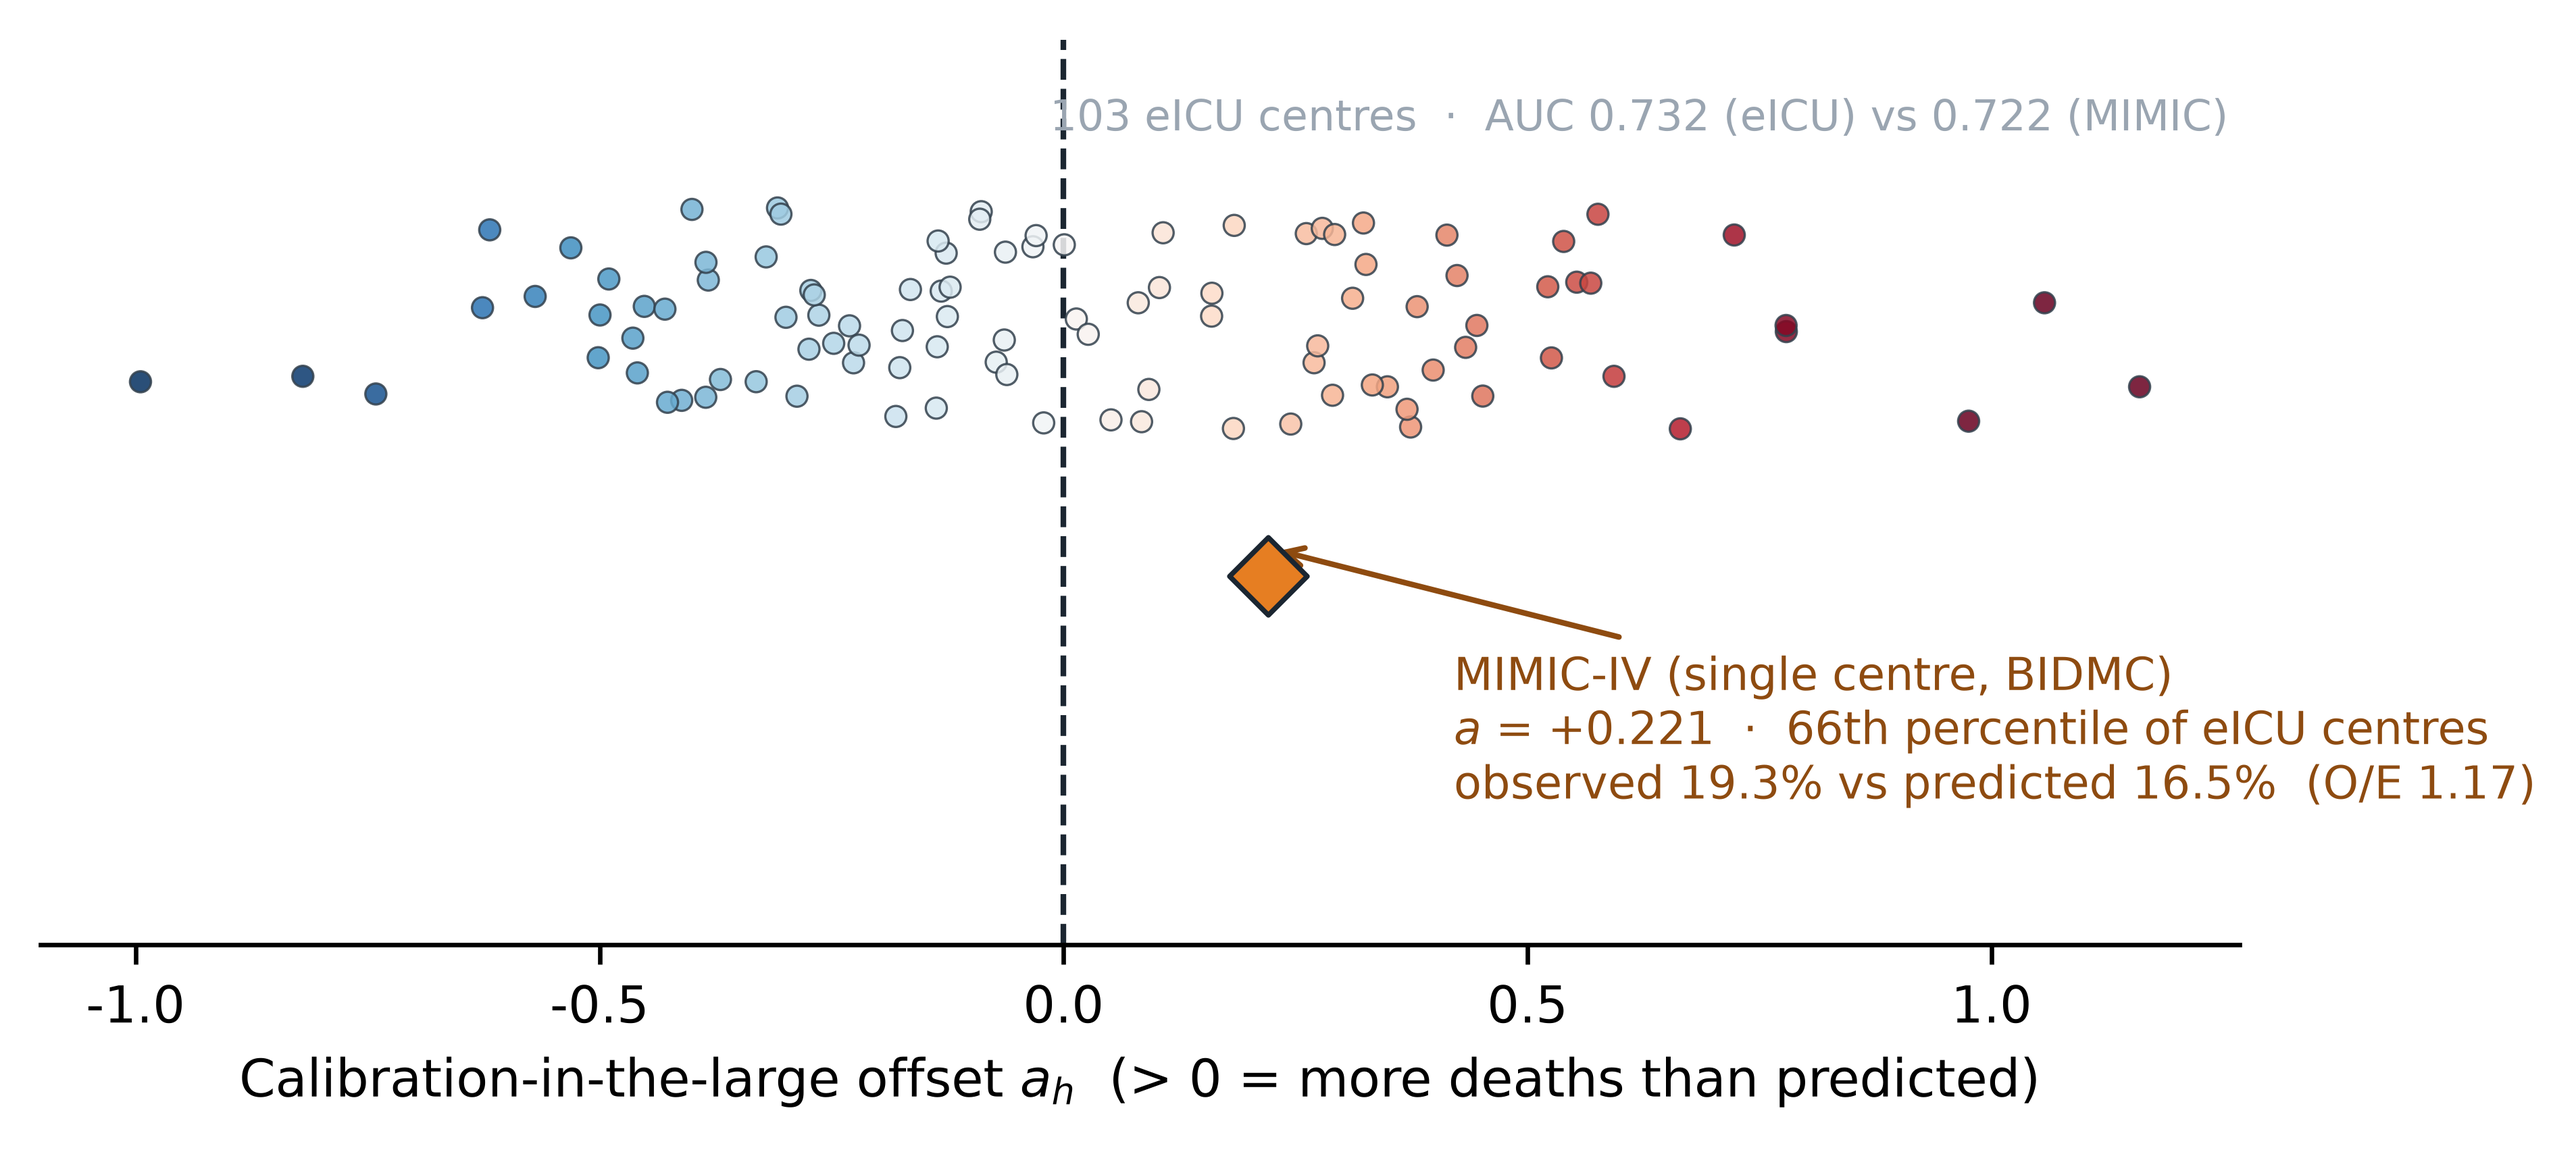
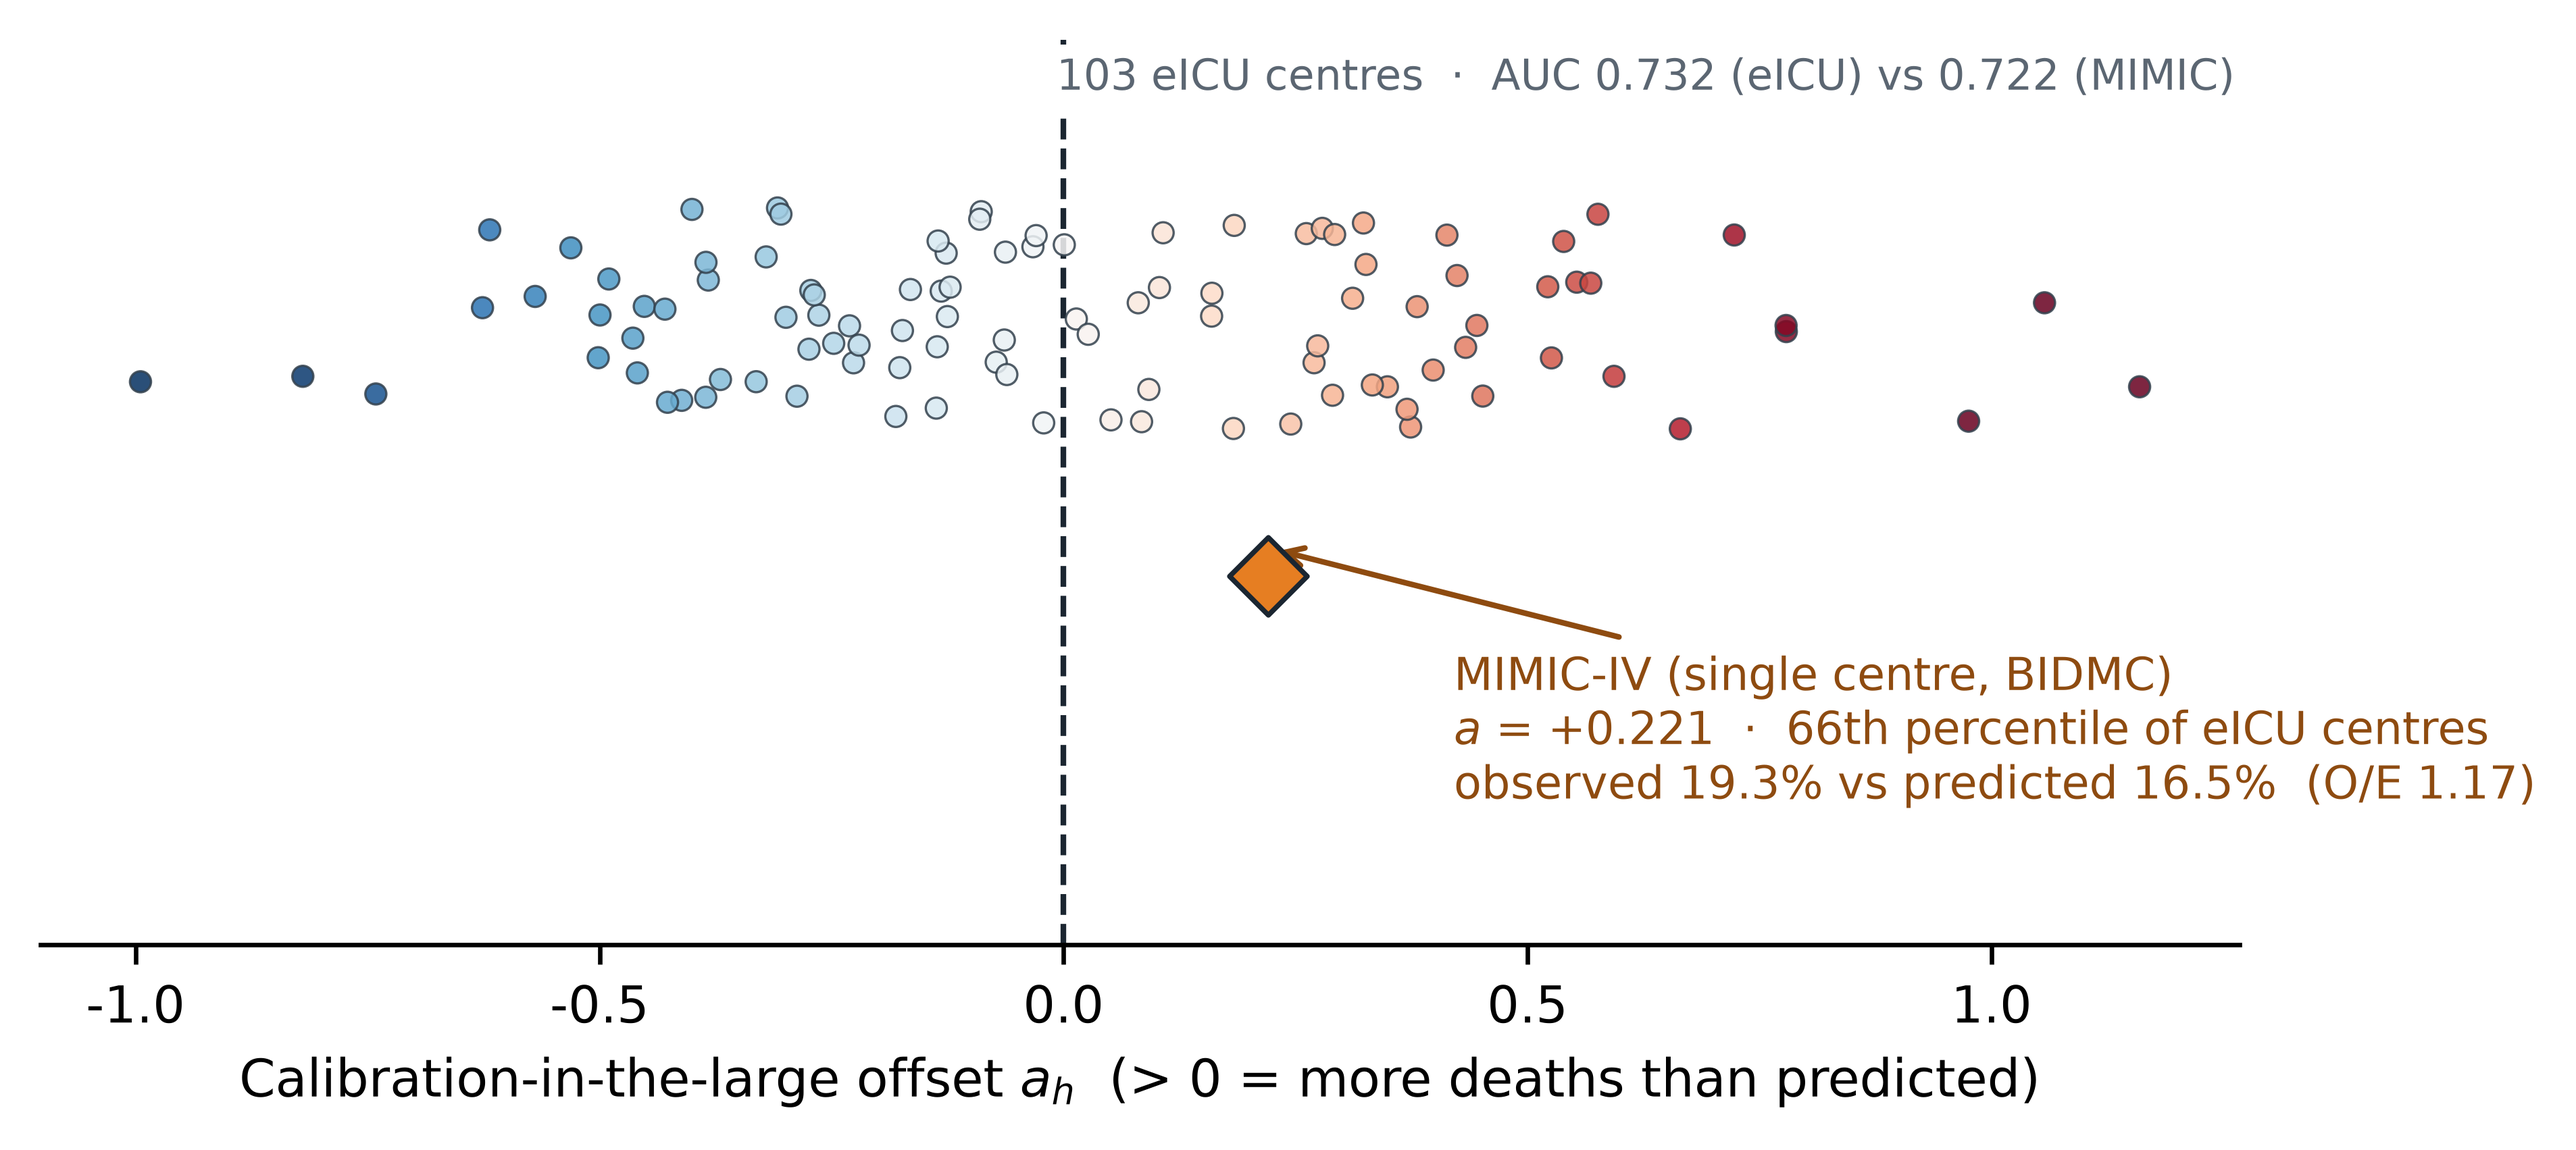
SuppFigS2: shift top annotation right and up, darken to #5B6672, add white background so the vertical dashed line no longer crosses it

Changed region(s): [[0.4057, 0.0311, 0.8739, 0.1245]]

diff --git a/figures_drift.py b/figures_drift.py
@@ -147,8 +147,10 @@ ax.annotate(f"MIMIC-IV (single centre, BIDMC)\n$a$ = {aM:+.3f}  ·  {pct:.0f}th 
             f"observed {100*R['mimic']['obs']:.1f}% vs predicted {100*R['mimic']['exp']:.1f}%  (O/E {R['mimic']['OE']:.2f})",
             xy=(aM, 0.22), xytext=(aM + 0.20, -0.14), fontsize=8, color="#8E4B10",
             arrowprops=dict(arrowstyle="->", color="#8E4B10", lw=1.0))
-ax.text(0.995, 0.90, f"103 eICU centres  ·  AUC {R['mimic']['auc_eicu']:.3f} (eICU) vs {R['mimic']['auc_mimic']:.3f} (MIMIC)",
-        transform=ax.transAxes, ha="right", fontsize=7.6, color=GRAY)
+ax.text(0.998, 0.945, "103 eICU centres  ·  AUC %.3f (eICU) vs %.3f (MIMIC)"
+            % (R["mimic"]["auc_eicu"], R["mimic"]["auc_mimic"]),
+            transform=ax.transAxes, ha="right", fontsize=7.6, color="#5B6672",
+            bbox=dict(fc="white", ec="none", pad=2.2), zorder=6)
 ax.set_yticks([]); ax.set_ylim(-0.35, 0.95)
 ax.set_xlabel("Calibration-in-the-large offset $a_h$  (> 0 = more deaths than predicted)", fontsize=9.2)
 ax.spines[["top", "right", "left"]].set_visible(False)
